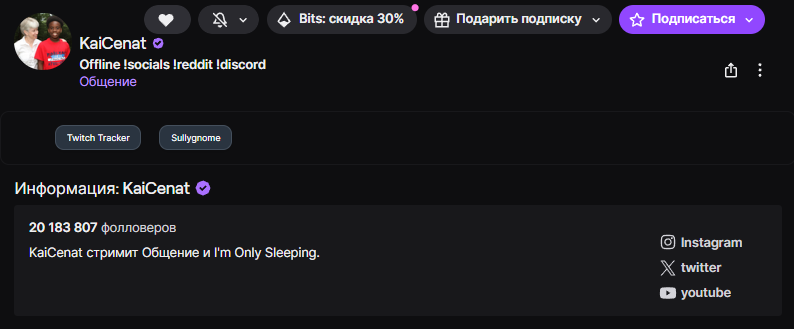
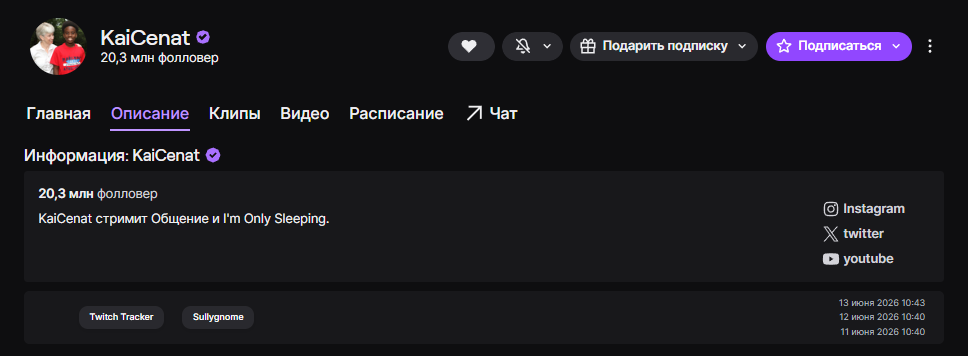
update readme

diff --git a/README.md b/README.md
@@ -3,11 +3,19 @@
 ![Downloads](https://img.shields.io/github/downloads/BeNDYGo/TwitchExtension/total.svg)
 ![GitHub Repo stars](https://img.shields.io/github/stars/BeNDYGo/TwitchExtension)
 
-Расширение для отображения статистики каналов на twitch
+Расширение для отображения статистики каналов на twitch, а так же время последнего захода на трансляцию
 
-Статистика с сайтов:
-- **Twitch Tracker**
+Расширение добавляет под стрим 2 кнопки для просмотра статистики текущего канала на *Twitch Tracker* и *Sullygnome*
+
+### Статистика с сайтов:
+- **Twitch Tracker***
 - **Sullygnome**
+
+*Для удобоства, при выборе сайта *Twitch Tracker* откроется сразу раздел **streams**, а не главная страница
+
+### Время последнего захода:
+- история хранит максимум 3 даты
+- если вы много раз обновляете страницу/заходите повторно на стрим, то обновляется только время захода текущего дня
 
 ![Screenshot](https://github.com/BeNDYGo/TwitchExtension/blob/main/Screenshot.png)
 
@@ -17,10 +25,3 @@
 2. Под никнеймом стримера добавится окно
 3. Выберите статистику с нужного сайта
 4. Откроется статистика стримера
-
-## Описание:
-
-Расширение добавлят под стрим 2 кнопки для просмотра статистики открытого канала на *Twitch Tracker* и *Sullygnome*
-
-## Особенности:
-Для удобоства, при выборе сайта *Twitch Tracker* откроется сразу раздел **streams**, а не главная страница
